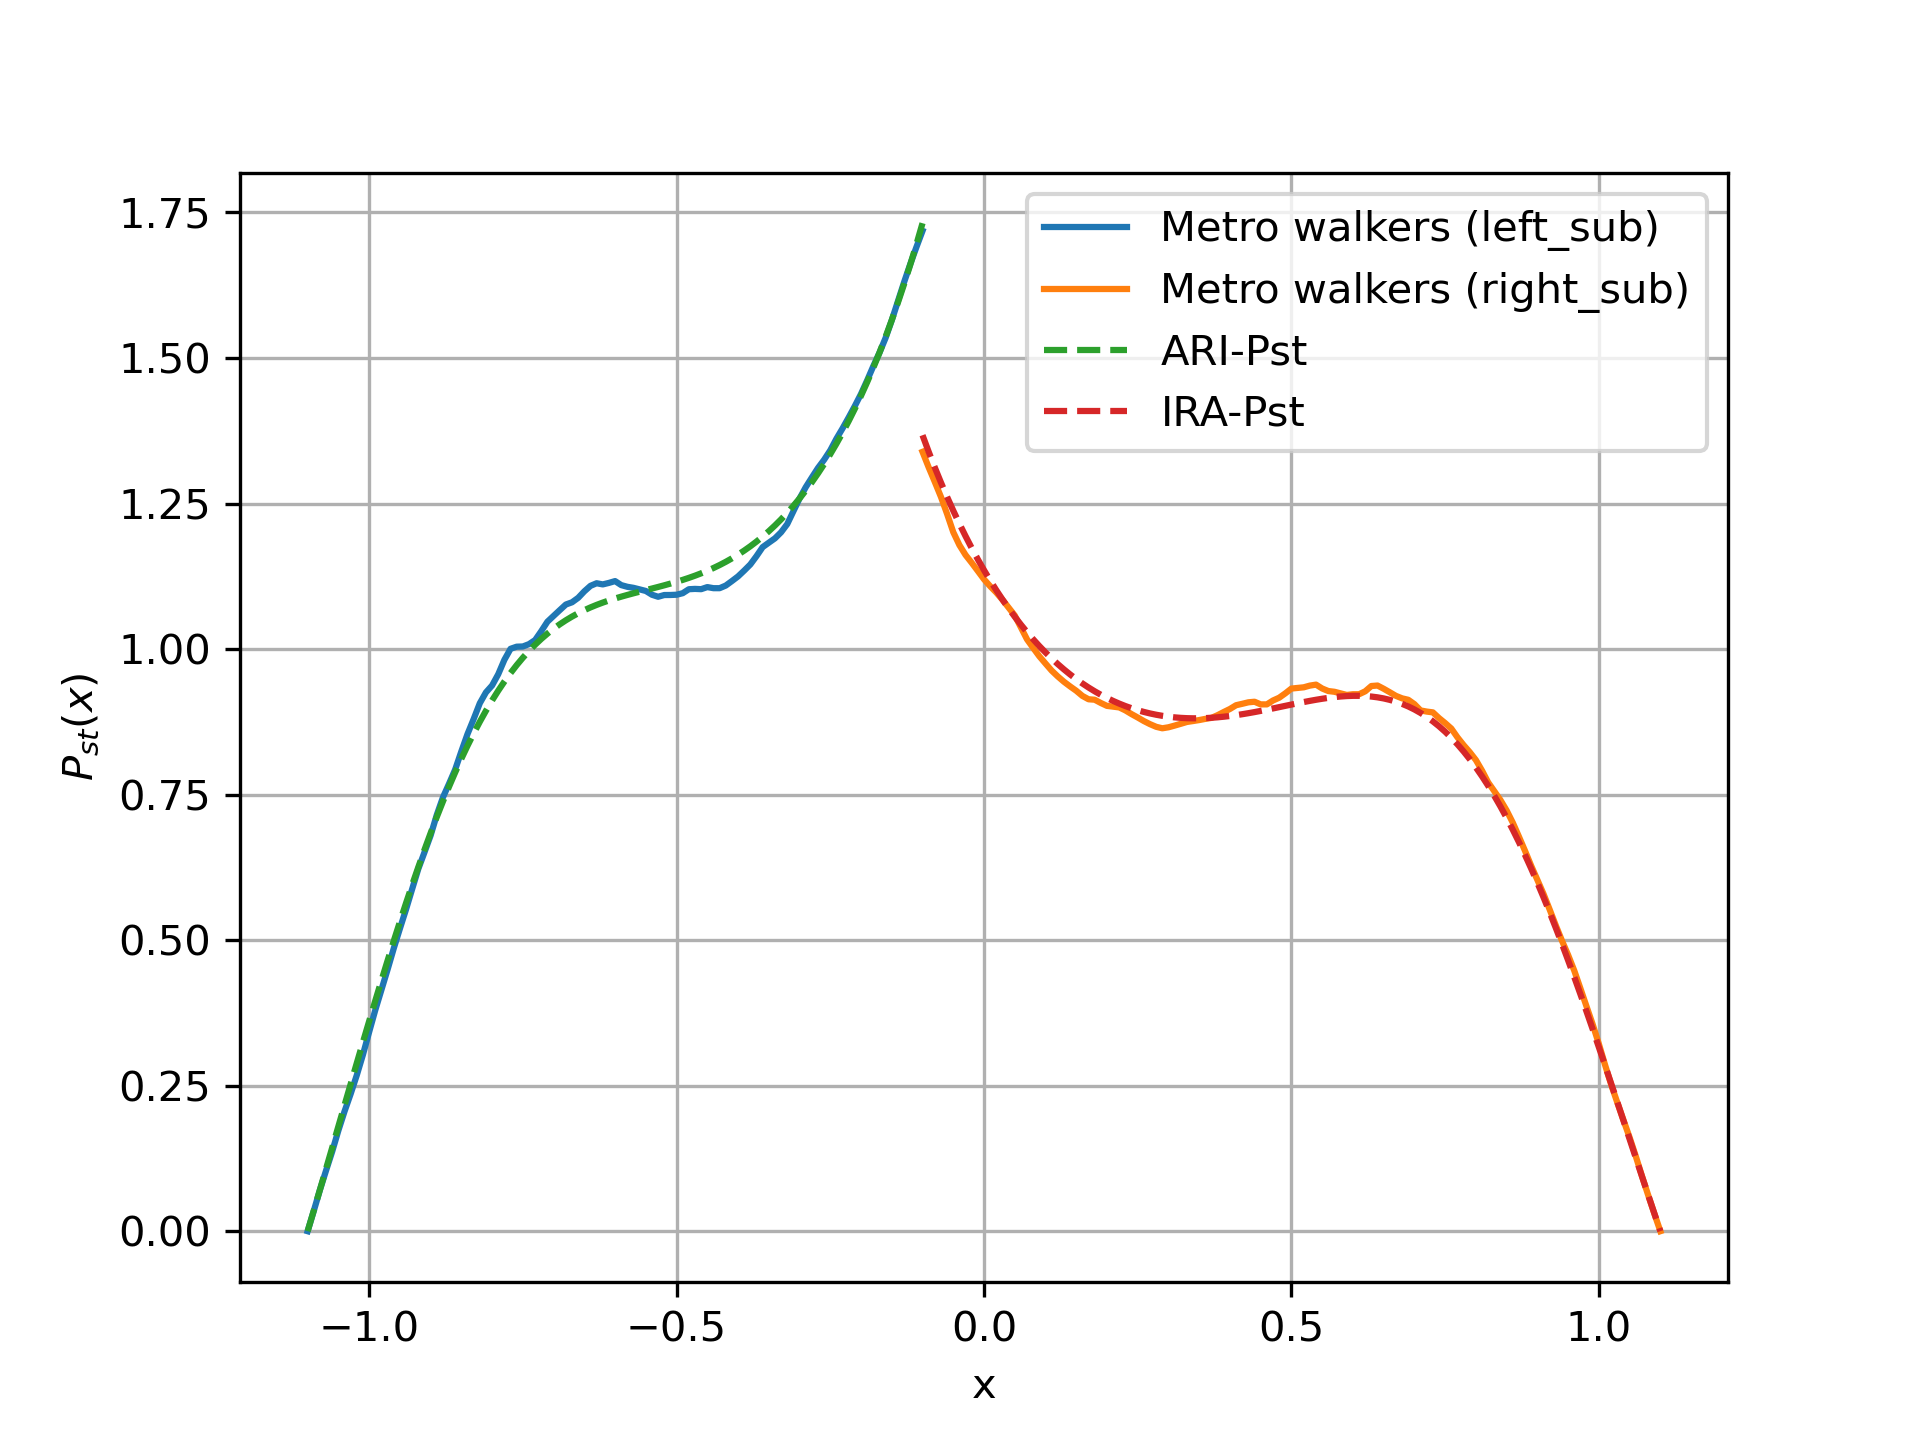
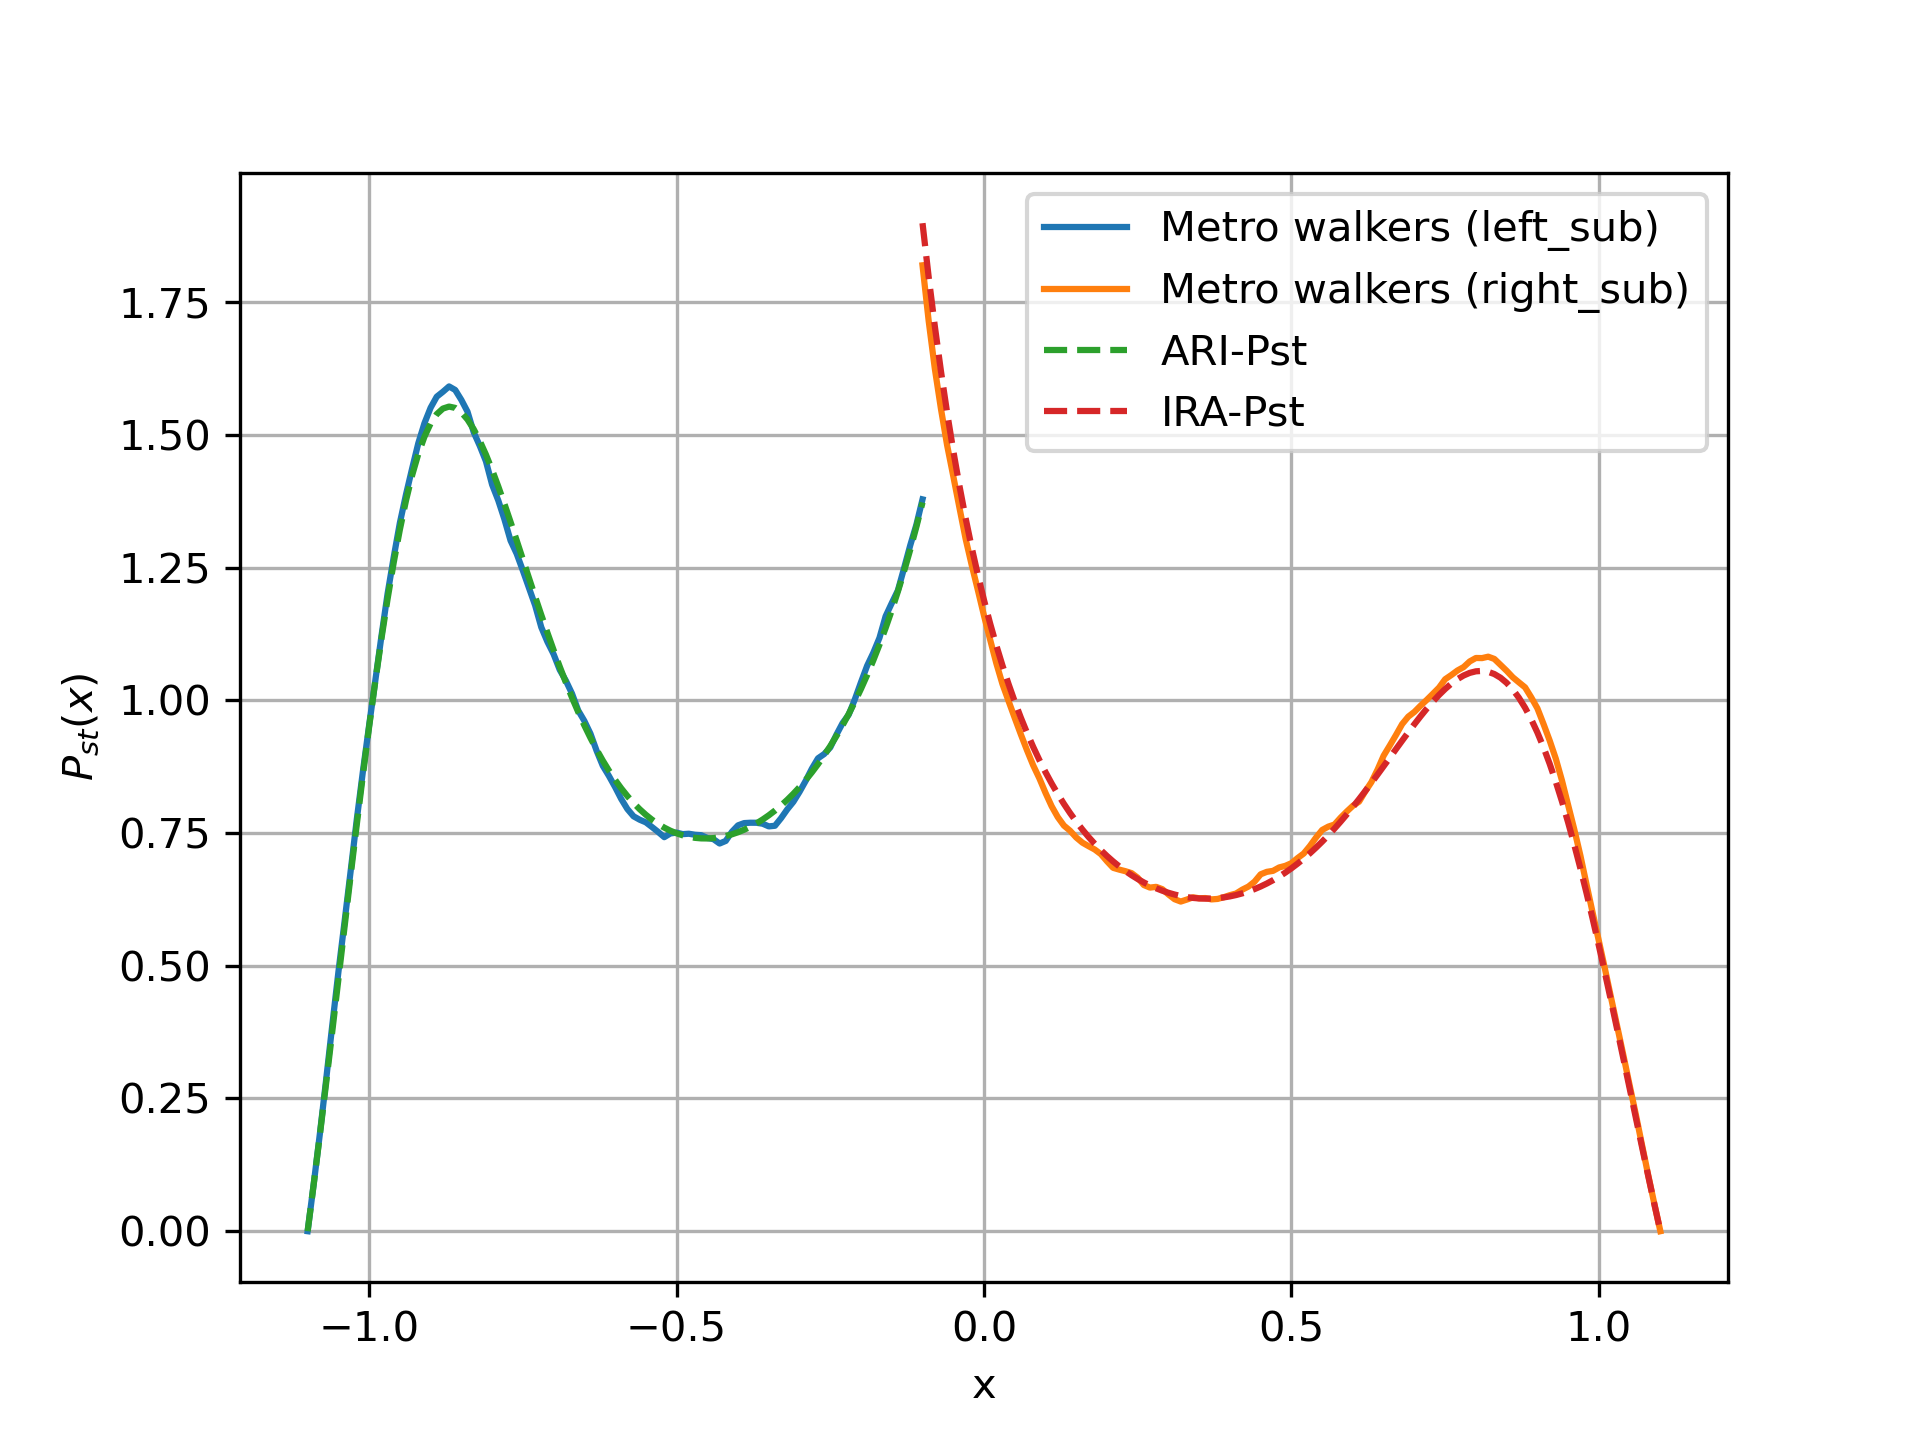
Regular top-start method simulation script, data, and graphs for random walk with medium energy barrier

diff --git a/Top_start_method/Random_walk_Model/Regular_version/regular_top_start_reconst_simulation.py b/Top_start_method/Random_walk_Model/Regular_version/regular_top_start_reconst_simulation.py
@@ -6,8 +6,8 @@ from scipy.integrate import quad
 from scipy.interpolate import interp1d, PchipInterpolator, CubicSpline
 
 # Define the double-well potential using two Gaussian functions
-def double_gaussian_potential(x, A1=3, mu1=-1, sigma1=0.5, A2=4, mu2=1, sigma2=0.6):
-# def double_gaussian_potential(x, A1=12, mu1=-1, sigma1=0.5, A2=10, mu2=1, sigma2=0.6):
+# def double_gaussian_potential(x, A1=3, mu1=-1, sigma1=0.5, A2=4, mu2=1, sigma2=0.6):
+def double_gaussian_potential(x, A1=12, mu1=-1, sigma1=0.5, A2=10, mu2=1, sigma2=0.6):
 # def double_gaussian_potential(x, A1=30, mu1=-1, sigma1=0.5, A2=25, mu2=1, sigma2=0.6):
     V1 = A1 * np.exp(-((x - mu1)**2) / (2 * sigma1**2))
     V2 = A2 * np.exp(-((x - mu2)**2) / (2 * sigma2**2))
